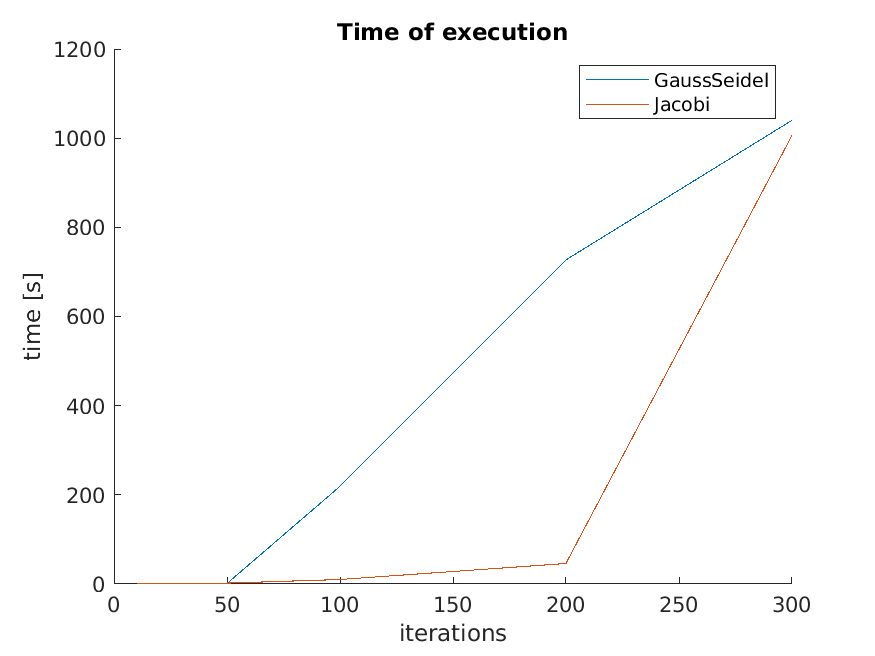
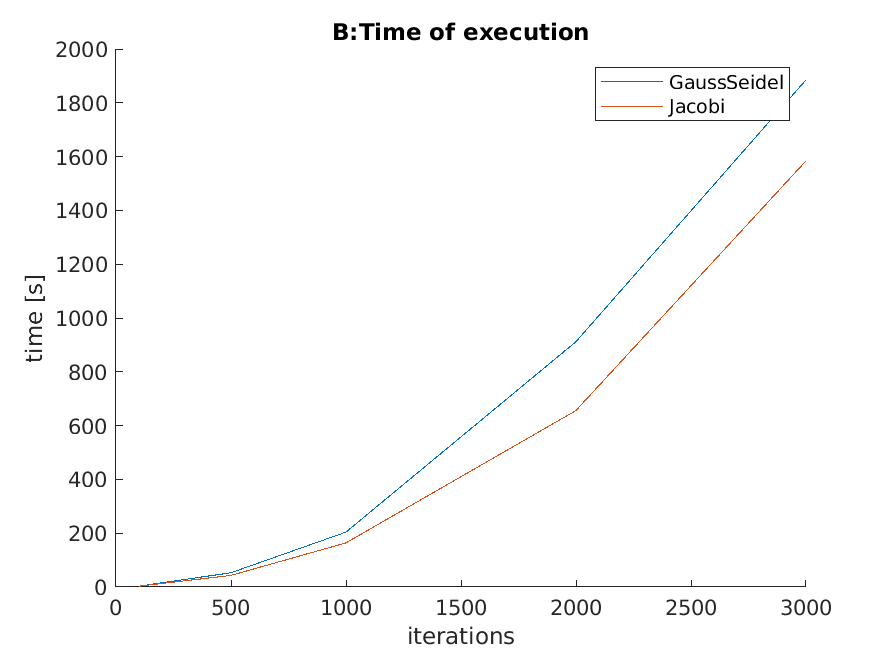
Add errors

diff --git a/Matrix_Operations.cpp b/Matrix_Operations.cpp
@@ -9,6 +9,10 @@
 
 #define MY_SIZE 968
 
+char filenumber = '0';
+char path[] = "/home/mikibak/matrix-operations-cpp/plots/error0.csv";
+//47
+
 Matrix LuDecomposition(const Matrix& A, const Matrix& b) {
     Matrix U = A.UpperTriangle() + A.Diagonal();
     Matrix L = A.LowerTriangle() + A.Diagonal();
@@ -18,15 +22,15 @@ Matrix LuDecomposition(const Matrix& A, const Matrix& b) {
     //auto start = chrono::high_resolution_clock::now();
 
     /* creating matrices L and U, such that A = L * U */
-    for (int i = 0; i < N - 1; ++i)		//columns
+    for (int i = 0; i < N - 1; i++)		//columns
     {
-        for (int j = i + 1; j < N; ++j)	//rows
+        for (int j = i + 1; j < N; j++)	//rows
         {
             //L->A[j][i] = U->A[j][i] / U->A[i][i];
             double value = U.GetElement(j, i) / U.GetElement(i, i);
             L.SetElement(j, i, value);
 
-            for (int k = i; k < N; ++k) {
+            for (int k = i; k < N; k++) {
                 //U->A[j][k] = U->A[j][k] - L->A[j][i] * U->A[i][k];
                 double v = U.GetElement(j, k) - L.GetElement(j, i) * U.GetElement(i, k);
                 U.SetElement(j, k, v);
@@ -35,15 +39,18 @@ Matrix LuDecomposition(const Matrix& A, const Matrix& b) {
     }
     /* now the main equation to solve may be defined as L * U * x = b  */
 
+    //L.Print();
+    //U.Print();
+
     /* solving equation L * y = b for y using forward substitution method */
     Matrix x = Matrix(1, A.GetSizeY(), 0);
     Matrix y = Matrix(1, A.GetSizeY(), 0);
 
-    for (int i = 0; i < N; ++i)
+    for (int i = 0; i < N; i++)
     {
         double S = 0;
 
-        for (int j = 0; j < i; ++j) {
+        for (int j = 0; j < i; j++) {
             S += L.GetElement(i, j) * y.GetElement(0, j);
         }
             //S += L->A[i][j] * y[j];
@@ -54,11 +61,11 @@ Matrix LuDecomposition(const Matrix& A, const Matrix& b) {
     }
 
     /* solving equation U * x = y using backward substitution method */
-    for (int i = N - 1; i >= 0; --i)
+    for (int i = N - 1; i >= 0; i--)
     {
         double S = 0;
 
-        for (int j = i + 1; j < N; ++j) {
+        for (int j = i + 1; j < N; j++) {
             S += U.GetElement(i, j);
         } //S += U->A[i][j] * x[j];
 
@@ -81,7 +88,13 @@ Matrix LuDecomposition(const Matrix& A, const Matrix& b) {
     //*n = norm(r);
 }
 
-Matrix Jacobi(const Matrix& A, const Matrix& b, int max_iter, double tol) {
+
+Matrix Jacobi(const Matrix& A, const Matrix& b, int max_iter, double tol, bool save) {
+
+    double error[max_iter];
+    for(int i = 0; i < max_iter; i++) {
+        error[i] = 0;
+    }
 
     Matrix L = A.LowerTriangle();
     Matrix U = A.UpperTriangle();
@@ -101,19 +114,42 @@ Matrix Jacobi(const Matrix& A, const Matrix& b, int max_iter, double tol) {
 
         r = minus_D.forwardSubstitution(LU * r) + DforwardSubstitutionb;
 
-        double error = (A*r - b).Norm();
+        error[k] = (A*r - b).Norm();
 
-        if(error < tol) {
+        //std::cout << error[k];
+
+        if(error[k] < tol) {
             break;
         }
+
+        if(k == max_iter - 1) std::cout << "Reached max iter" << std::endl;
     }
 
     if(A.GetSizeX() == MY_SIZE) std::cout << "Number of iterations for Jacobi: " << k << std::endl;
+    //save error for plot
+
+    if(save) {
+        bool comma = false;
+        path[47] = filenumber;
+        std::ofstream out2(path);
+        for (auto col : error) {
+            if (comma) out2 << ',';
+            comma = true;
+            out2 << col;
+        }
+        filenumber++;
+    }
+
     return r;
 }
 
 
-Matrix GaussSeidel(const Matrix& A, const Matrix& b, int max_iter, double tol) {
+Matrix GaussSeidel(const Matrix& A, const Matrix& b, int max_iter, double tol, bool save) {
+
+    double error[max_iter];
+    for(int i = 0; i < max_iter; i++) {
+        error[i] = 0;
+    }
 
     Matrix L = A.LowerTriangle();
     Matrix U = A.UpperTriangle();
@@ -137,21 +173,37 @@ Matrix GaussSeidel(const Matrix& A, const Matrix& b, int max_iter, double tol) {
         //r = -(D+L) \ (U*r) + (D+L) \ b;
         r = minus_DL.forwardSubstitution(U * r) + DLforwardSubstitutionb;
 
-        double error = (A*r - b).Norm();
+        error[k] = (A*r - b).Norm();
 
-        if(error < tol) {
+        if(error[k] < tol) {
             break;
         }
 
+        if(k == max_iter - 1) std::cout << "Reached max iter" << std::endl;
     }
 
     if(A.GetSizeX() == MY_SIZE) std::cout << "Number of iterations for Gauss-Seidel: " << k << std::endl;
+
+    //save error for plot
+
+    if(save) {
+        bool comma = false;
+        path[47] = filenumber;
+        std::ofstream out2(path);
+        for (auto col : error) {
+            if (comma) out2 << ',';
+            comma = true;
+            out2 << col;
+        }
+        filenumber++;
+    }
+
     return r;
 }
 
 long TimeWrapJacobi(const Matrix& A, const Matrix& b, int max_iter, double tol) {
     auto start = std::chrono::high_resolution_clock::now();
-    Jacobi(A, b, max_iter, tol);
+    Jacobi(A, b, max_iter, tol, false);
 
     auto stop = std::chrono::high_resolution_clock::now();
     auto duration = std::chrono::duration_cast<std::chrono::milliseconds>(stop - start);
@@ -160,7 +212,7 @@ long TimeWrapJacobi(const Matrix& A, const Matrix& b, int max_iter, double tol) 
 
 long TimeWrapGaussSeidel(const Matrix& A, const Matrix& b, int max_iter, double tol) {
     auto start = std::chrono::high_resolution_clock::now();
-    GaussSeidel(A, b, max_iter, tol);
+    GaussSeidel(A, b, max_iter, tol, false);
 
     auto stop = std::chrono::high_resolution_clock::now();
     auto duration = std::chrono::duration_cast<std::chrono::milliseconds>(stop - start);
@@ -170,8 +222,8 @@ long TimeWrapGaussSeidel(const Matrix& A, const Matrix& b, int max_iter, double 
 void ValuesForPlots(Matrix* A, Matrix* b, int max_iter, double tol, int a1, int a2, int a3) {
     //N = {100, 500, 1000, 2000, 3000 . . . }
 
-    int N[] = {10, 50, 100, 200, 300};
-    //int N[] = {100, 500, 1000, 2000, 3000};
+    //int N[] = {10, 50, 100, 200, 300};
+    int N[] = {100, 500, 1000, 2000, 3000};
 
     long GaussSeidelIter[5];
     long JacobiIter[5];
@@ -186,7 +238,7 @@ void ValuesForPlots(Matrix* A, Matrix* b, int max_iter, double tol, int a1, int 
             b->SetElement(0, j, value);
         }
         GaussSeidelIter[i] = TimeWrapGaussSeidel(*A, *b, max_iter, 1e-6);
-        std::cout << i << ": " << GaussSeidelIter[i] << " s" << std::endl;
+        std::cout << i << ": " << GaussSeidelIter[i] << " ms" << std::endl;
     }
 
     std::cout << "\n";
@@ -199,7 +251,7 @@ void ValuesForPlots(Matrix* A, Matrix* b, int max_iter, double tol, int a1, int 
             b->SetElement(0, j, value);
         }
         JacobiIter[i] = TimeWrapJacobi(*A, *b, max_iter, 1e-6);
-        std::cout << i << ": " << JacobiIter[i] << " s" << std::endl;
+        std::cout << i << ": " << JacobiIter[i] << " ms" << std::endl;
     }
 
     //export to csv
@@ -242,7 +294,7 @@ int main()
 
     auto start = std::chrono::high_resolution_clock::now();
 
-    Matrix x = Jacobi(*A, *b, max_iter, 1e-6);
+    Matrix x = Jacobi(*A, *b, max_iter, 1e-6, true);
 
     auto stop = std::chrono::high_resolution_clock::now();
     auto duration = std::chrono::duration_cast<std::chrono::milliseconds>(stop - start);
@@ -254,12 +306,14 @@ int main()
 
     start = std::chrono::high_resolution_clock::now();
 
-    Matrix x2 = GaussSeidel(*A, *b, max_iter, 1e-6);
+    Matrix x2 = GaussSeidel(*A, *b, max_iter, 1e-6, true);
 
     stop = std::chrono::high_resolution_clock::now();
     duration = std::chrono::duration_cast<std::chrono::milliseconds>(stop - start);
     std::cout << "Time: " << duration.count() << " ms"  << std::endl;
     //x2.Print();
+
+    ValuesForPlots(A, b, max_iter, 1e-6, a1, a2, a3);
 
 
     //C:
@@ -268,19 +322,19 @@ int main()
     a3 = -1;
 
     A = new BandMatrix(MY_SIZE, MY_SIZE, a1, a2, a3);
-    //Jacobi(*A, *b, max_iter, 1e-6);
-    //GaussSeidel(*A, *b, max_iter, 1e-6);
+    Jacobi(*A, *b, max_iter, 1e-6, true);
+    GaussSeidel(*A, *b, max_iter, 1e-6, true);
+    //std::cout << "Metody nie zbiegają się!" << std::endl;
 
     //GAUSS-SEIDEL:
 
     start = std::chrono::high_resolution_clock::now();
 
-    LuDecomposition(*A, *b);
+    Matrix LU_result = LuDecomposition(*A, *b);
 
     stop = std::chrono::high_resolution_clock::now();
     duration = std::chrono::duration_cast<std::chrono::milliseconds>(stop - start);
+    //LU_result.Print();
     std::cout << "LU decomposition time: " << duration.count() << " ms"  << std::endl;
-
-    ValuesForPlots(A, b, max_iter, 1e-6, a1, a2, a3);
 
 }

diff --git a/BandMatrix.cpp b/BandMatrix.cpp
@@ -12,13 +12,15 @@ BandMatrix::BandMatrix(int sizeX, int sizeY, int a1, int a2, int a3) {
                 //main diagonal
                 columns[y][x] = a1;
             }
-            if(x == y + 1 || y == x + 1) {
+            else if(x == y + 1 || y == x + 1) {
                 //second diagonal
                 columns[y][x] = a2;
             }
-            if(x == y + 2 || y == x + 2) {
+            else if(x == y + 2 || y == x + 2) {
                 //main diagonal
                 columns[y][x] = a3;
+            } else {
+                columns[y][x] = 0;
             }
         }
     }

diff --git a/plots_errors.m b/plots_errors.m
@@ -1,0 +1,15 @@
+clc
+clear all
+close all
+
+ErrorJacobi = csvread('/home/mikibak/matrix-operations-cpp/plots/error0.csv')
+ErrorGaussSeidel = csvread('/home/mikibak/matrix-operations-cpp/plots/error1.csv')
+hold on
+semilogy(1:20, ErrorJacobi(1:20));
+semilogy(1:20, ErrorGaussSeidel(1:20));
+legend('Jacobi', 'GaussSeidel');
+title("B: Residual error norm");
+ylabel("error");
+xlabel("iteration");
+hold off
+saveas(gcf, '/home/mikibak/matrix-operations-cpp/plots/errors.png');

diff --git a/plots_errors_C.m b/plots_errors_C.m
@@ -1,0 +1,15 @@
+clc
+clear all
+close all
+
+ErrorJacobi = csvread('/home/mikibak/matrix-operations-cpp/plots/error2.csv')
+ErrorGaussSeidel = csvread('/home/mikibak/matrix-operations-cpp/plots/error3.csv')
+hold on
+semilogy(ErrorJacobi);
+semilogy(ErrorGaussSeidel);
+legend('Jacobi', 'GaussSeidel');
+title("C: Residual error norm");
+ylabel("error");
+xlabel("iteration");
+hold off
+saveas(gcf, '/home/mikibak/matrix-operations-cpp/plots/errors_C.png');
